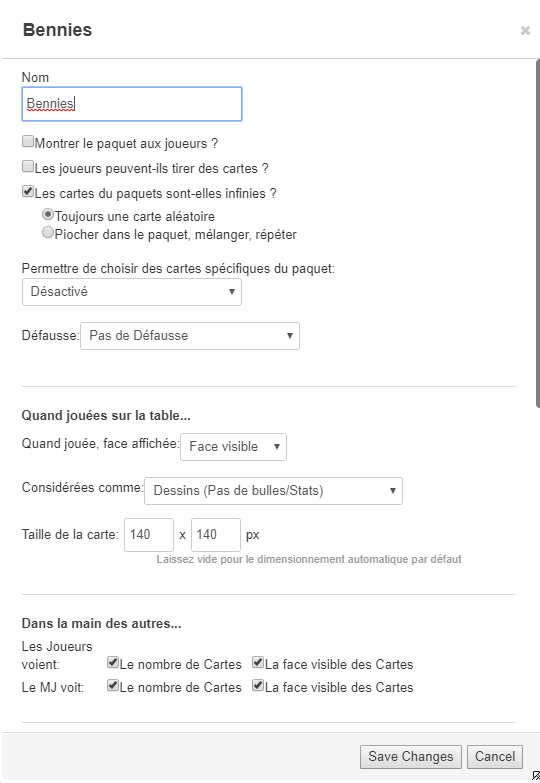
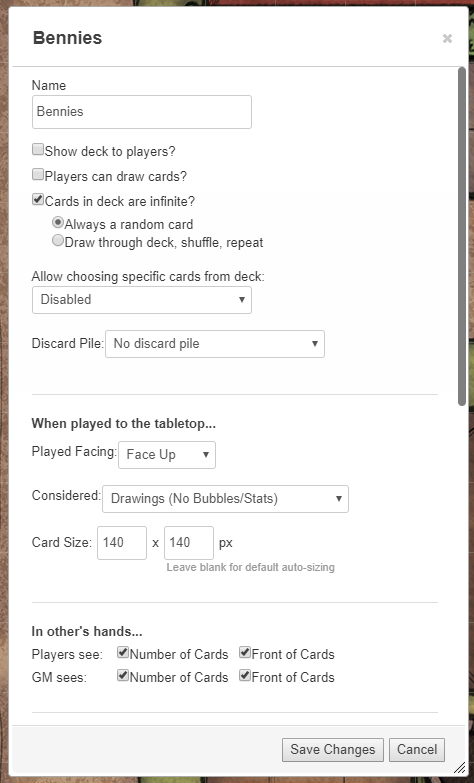
- Improved documentation - Fixed typo - Translated screenshots to English

diff --git a/README.md b/README.md
@@ -17,7 +17,7 @@ You will also need to create a Deck of "cards" for your bennies, in your Roll20 
 ![Benny deck setup](doc-assets/benny-deck.png)
 
 * Create one card, give it a name. This name can be used in the API (see below).
-* Uploade a visual for your card and the deck background. I personnaly use the same image.
+* Upload a visual for your card and the deck background. I personnaly use the same image.
 
 ![Benny card setup](doc-assets/benny-card.png)
 
@@ -53,7 +53,7 @@ And you can short it all :
 !bennies-deal -p PlayerDisplayName -d NameOfTheBennyDeck -q 2
 ```
 
-If you don't provide a player name, the commande will list all players and let you pick one :
+If you don't provide a player name, the command will list all online players and let you pick one :
 ```javascript
 !bennies-deal -d NameOfTheBennyDeck
 ```
@@ -83,7 +83,7 @@ You can use the reset command, which syntax looks exactly as the deal command, b
 ```
 Bennies will be reset to 3.
 
-If player has Luck or similary Edge, you can set the quantity :
+If player has Luck or similar Edge, you can set the quantity :
 ```javascript
 !bennies-reset -p PlayerDisplayName -d NameOfTheBennyDeck -q 4
 ```
@@ -96,9 +96,20 @@ You can of course create macro so you don't have to type the commands each time 
 
 ![Reset macro](doc-assets/simple-macro.png)
 
+Note : sometimes when you put more than one command in a single macro, it might stop to the first line and ignore the rest. When you insert an empty line on top, I find it does always execute all lines.
+
 You can add this macro to your macro bar. However macro bar becomes quickly overburdained.
 
-Create a fake character, e.g. named "Benny Dealer" and have her Abilities to store the macros. 
+You can use UTF-8 characters that look like icons for macro names. You can find such icons on sites like [utf8icons](https://www.utf8icons.com/subsets/miscellaneous-symbols-and-pictographs/100) or [emojipedia](https://emojipedia.org/). For example, here I used a "cookie" for the macro name (the macro will ask me to pick a player, and will deal her 1 benny) :
+
+![Macro with Cookie name](doc-assets/macro-with-utf8-icons.png)
+
+This will nicely display in your macro bar :
+
+![Cookie macro displayed in macro bar](doc-assets/icons-in-macro-bar.png)
+
+### Using a Macro Character Sheet
+To save macro bar space, and for macro you don't need that often, you can create a fake character, e.g. named "Benny Dealer" and have her Abilities to store the macros. 
 
 ![Macro Character](doc-assets/benny-dealer-character.png)
 
